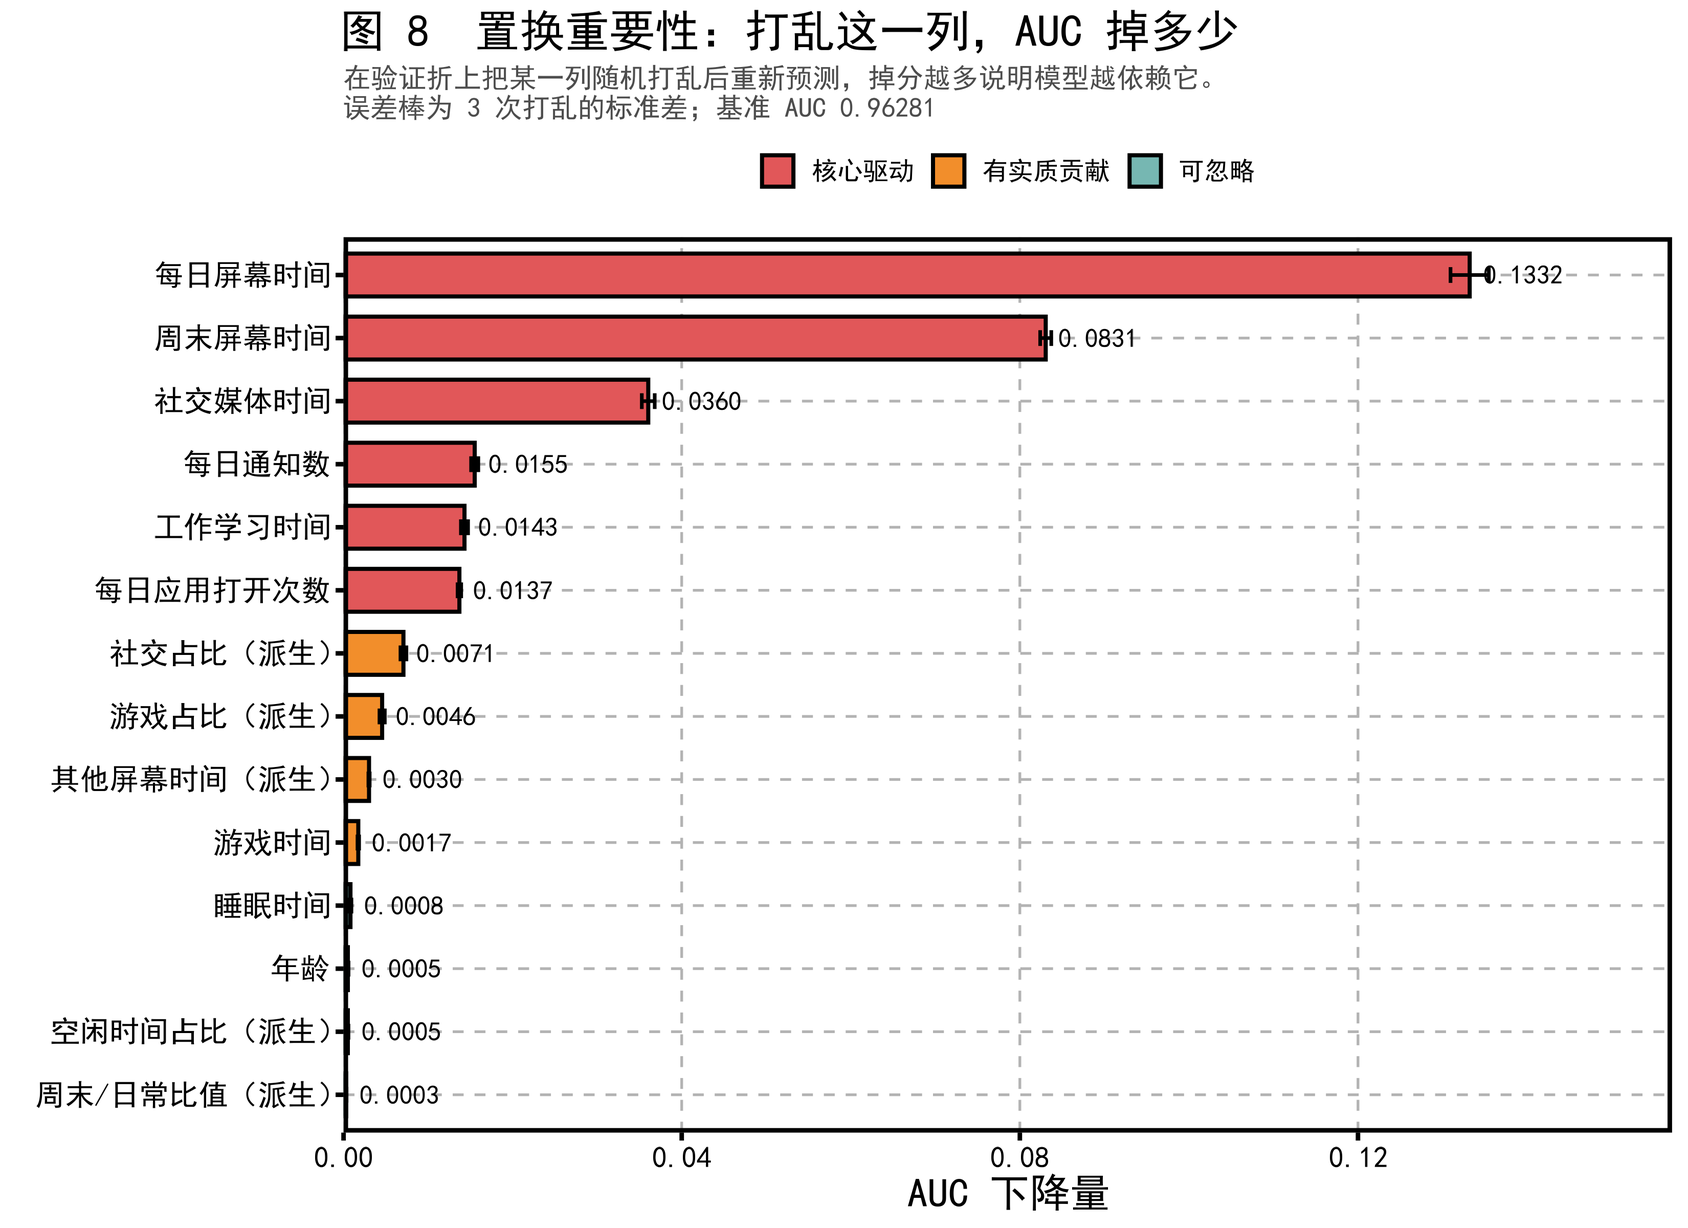
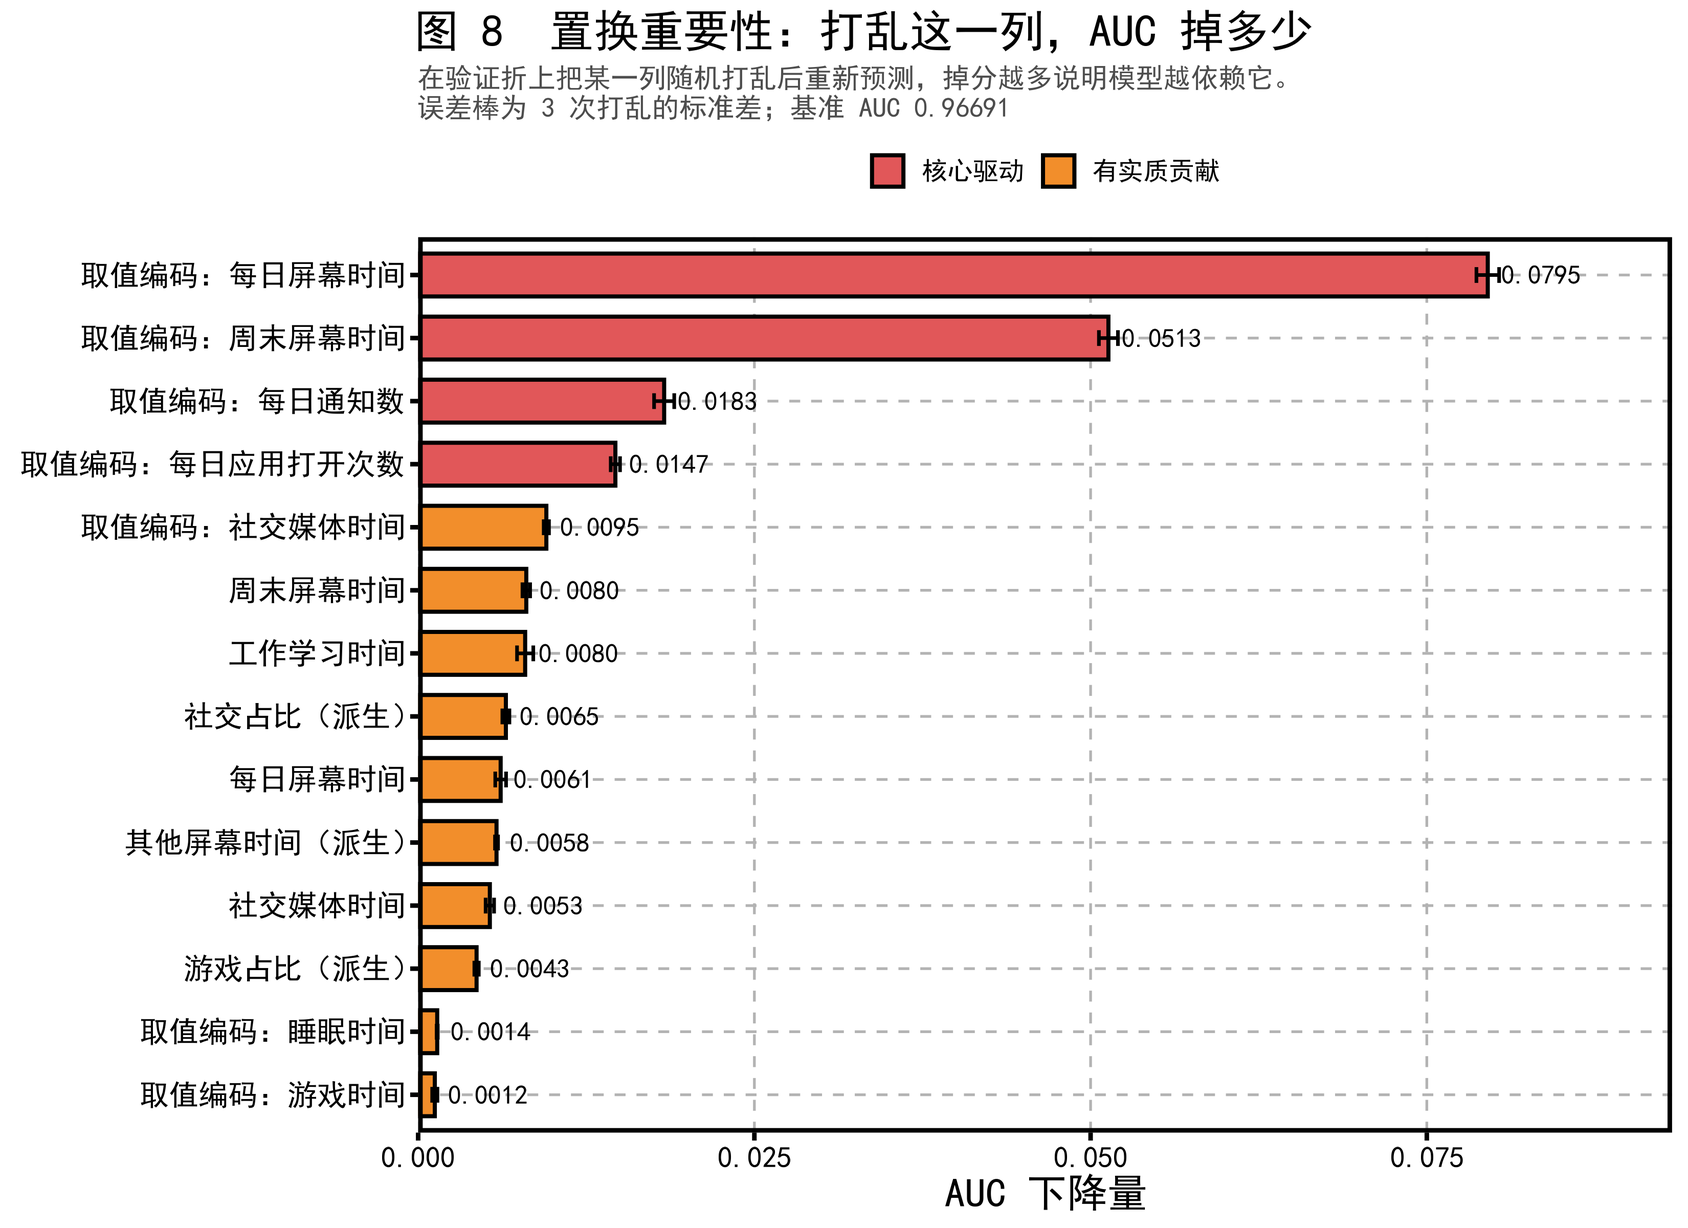
知识收尾：文档与代码对齐到 25 特征口径，补项目规则文件
上一次提交把特征集从 17 改到 25，但若干文档与脚本还在描述旧配置。
本次把「代码事实」与「文档说法」重新对上，并补上此前完全缺失的规则面。

== 陈旧说法修正 ==

README.md 六处：
  - 硬约束写的还是三项，改为四项（421,427 行 100%）
  - 核心结论只讲插补一个实例，推广为「预处理的价值 = 该变换有多难被模型自己造出来」
  - 进度表补赛后一轮；文档索引补 讨论区核查.md
  - 环境变量补 USE_TE=0；协作规则补第 4 条（编码同样必须折内拟合）

R/09_alpha_scan.R：注释里的「特征只有 17 个」→ 25 个。

== 重要性表重跑（原表是 17 特征口径）==

R/13_importance.R 此前不做 target encoding，产出的表描述的是已不使用的特征集。
补上折内编码并重跑，结果改变了一个已记录的结论：

  每日屏幕时间（原始）置换重要性  0.1332 -> 0.0061，从第 1 位掉到第 9 位
  取值编码：每日屏幕时间                    0.0795，占据首位

原始列没有变得不重要，是它的信息被编码列更好地承载了。
项目总览 4.3 / 4.4 按新表重写，并显式标注 4.2 的消融表已是历史口径。

== 口径声明（避免读者混用两套数字）==

docs/进度.md 头部新增口径表：哪些结果属于「加入编码之前」、哪些属于当前代码。
R/09_ablation.R 头部加声明：该脚本不走框架、不做编码，产出的是旧口径。

设计文档 §0 修订表补 4 行：F1 不完整、F8 被 F1 推翻、
「派生特征全部无效」是被自己的错误掩盖、特征集 17 -> 25。

== 新增 CLAUDE.md ==

此前项目没有任何 AI 规则文件，四条不可违反的纪律（折叠冻结、看 y 的变换只能
折内拟合、框架单点修改、不污染 output/oof/）只散落在代码注释里。
新建一份 60 行的规则文件作为下次会话的入口，含 R 的绝对路径调用方式、
度量纪律、以及五个已踩过的陷阱。

门禁：51 个 R 脚本逐文件语法通过；文档内部链接全部可达；
建模列数确认为 25；网格目录仍为 14 格未受污染。

diff --git a/docs/项目总览.md b/docs/项目总览.md
@@ -348,46 +348,65 @@ glmnet 在其中权重很低，因此该项差异不影响交付。
 
 ![图 8](../reports/figures/fig8_特征重要性.png)
 
-在 17 特征配置上重新计算的结果如下（基线 AUC 0.96281）：
+在**当前的 25 特征配置**上计算的结果如下：
 
-| 特征          | 置换重要性  | 增益占比  |
-| ----------- | ------ | ----- |
-| 每日屏幕时间      | 0.1332 | 36.9% |
-| 周末屏幕时间      | 0.0831 | 17.4% |
-| 社交媒体时间      | 0.0360 | 12.8% |
-| 每日通知数       | 0.0155 | 6.6%  |
-| 工作学习时间      | 0.0143 | 2.6%  |
-| 每日应用打开次数    | 0.0137 | 6.3%  |
-| 社交占比（派生）    | 0.0071 | 6.4%  |
-| 其余十个特征      | < 0.005 | —    |
+| 特征 | 置换重要性 | 增益占比 |
+|---|---|---|
+| 取值编码：每日屏幕时间 | **0.0795** | 34.9% |
+| 取值编码：周末屏幕时间 | **0.0513** | 12.9% |
+| 取值编码：每日通知数 | 0.0183 | 7.5% |
+| 取值编码：每日应用打开次数 | 0.0147 | 6.4% |
+| 取值编码：社交媒体时间 | 0.0095 | 5.2% |
+| 周末屏幕时间（原始） | 0.0080 | 3.1% |
+| 工作学习时间（原始） | 0.0080 | 1.4% |
+| 社交占比（派生） | 0.0065 | 6.1% |
+| **每日屏幕时间（原始）** | **0.0061** | 6.9% |
+| 预算余量（派生） | 0.0058 | 1.1% |
+| 其余十五个特征 | < 0.005 | — |
 
-值得注意的是，**周末屏幕时间的重要性位居第二**。
-该变量与每日屏幕时间高度相关，看似冗余，
-但当每日屏幕时间缺失时（占 13.86%），它是最可靠的替代来源。
-这说明**冗余变量在存在缺失的场景下具有实质价值**。
+**这张表相对上一版发生了根本变化，值得单独说明。**
+
+在 17 特征配置下，`每日屏幕时间` 的置换重要性是 **0.1332**，遥遥领先。
+加入逐取值编码之后，它掉到 **0.0061**——**排到了第九位**，
+而它的编码版本以 0.0795 占据首位。
+
+**原始列并没有变得不重要，是它的信息被编码列更好地承载了。**
+打乱原始列时，模型可以从编码列把同样的信息读回来；反过来则不行，
+因为编码携带的是原始列的单调排序**捕捉不到**的那部分（发现 10、11）。
+
+同样的替代发生在通知数上：原始列从 0.0155 掉到 0.0004，
+而 `取值编码：每日通知数` 是 0.0183。
+
+> ⚠ **这也说明 4.2 的消融表已是历史口径。** 那张表是在加入编码**之前**测的，
+> 其中"删掉每日通知数 −0.00825"描述的是一个不再存在的配置。
+> 在当前配置下，删掉原始通知数很可能代价小得多，因为编码列顶得上。
+> **该消融尚未在新配置下重跑**（约需 3 小时），在重跑之前，
+> 4.2 应按"加入编码之前"的口径理解。
+
+关于**周末屏幕时间**的老观察仍然成立：它的编码版位居第二。
+该变量与每日屏幕时间高度相关、看似冗余，但当每日屏幕时间缺失时（占 13.86%），
+它是最可靠的替代来源。**冗余变量在存在缺失的场景下具有实质价值。**
 
 ### 4.4 三种重要性口径的分歧
 
 模型内建的"增益重要性"与置换重要性给出的排序并不一致。
-最清楚的一处倒挂出现在派生特征与原始特征之间：
+在当前配置下，最清楚的一处倒挂是：
 
-| 特征           | 增益占比  | 置换重要性   |
-| ------------ | ----- | ------- |
-| 周末/日常比值（派生）  | 1.84% | 0.00031 |
-| 空闲时间占比（派生）   | 1.59% | 0.00050 |
-| 游戏时间（原始）     | 1.46% | 0.00174 |
+| 特征 | 增益占比 | 置换重要性 |
+|---|---|---|
+| 每日屏幕时间（原始） | 6.9% | 0.0061 |
+| 社交媒体时间（原始） | 6.1% | 0.0053 |
+| 取值编码：社交媒体时间 | 5.2% | **0.0095** |
 
-游戏时间的增益占比最低，置换重要性却是前两者的三至六倍。
-"社交占比"同理：其增益占比 6.42% 与"每日通知数"的 6.63% 几乎持平，
-置换重要性却只有后者的一半（0.0071 对 0.0155）。
+两个原始列的**增益占比高于**那个编码列，**置换重要性却低于它**。
 
 这一分歧有明确解释。增益重要性统计的是"该特征在树的分裂中被使用的程度"，
-取值连续、分布平滑的派生特征可被反复切分，容易累积较高的增益；
+取值连续的原始列可被反复切分，容易累积较高的增益；
 置换重要性衡量的则是"打乱该列之后模型是否仍能正常工作"。
-派生特征被频繁使用，但一旦打乱，模型立即改用其分量替代，因而并非不可或缺。
+**原始列被频繁使用，但一旦打乱，模型立即改用编码列替代，因而并非不可或缺。**
 
-该现象在移除「屏幕加社交」之前更为极端：它的增益占比曾高达 9.41%、
-位居第三，置换重要性却仅 0.00096——这也是判定其为冗余的证据之一。
+该现象在更早的配置里也出现过：已被删除的「屏幕加社交」增益占比曾高达 9.41%、
+位居第三，置换重要性却仅 0.00096——这正是判定其为冗余的证据之一。
 
 **结论：评估特征价值时应以置换重要性与消融实验为准，
 增益重要性仅可作为参考。**

diff --git a/CLAUDE.md b/CLAUDE.md
@@ -1,0 +1,73 @@
+# 智能手机成瘾预测 — Agent 工作规则
+
+10 人课程小组项目，纯 R。Kaggle 站内赛 S6E8，指标 ROC-AUC。
+面向组员的入口是 [docs/项目总览.md](docs/项目总览.md)，本文件只写**不看到就会犯错的东西**。
+
+## 怎么跑
+
+R 4.6.1 不在 PATH，必须用绝对路径：
+
+```
+"D:/R/R-4.6.1/bin/Rscript.exe" R/xx.R
+```
+
+数据不在 git 里（68 MB，且竞赛数据不宜公开再分发）。需自行从 Kaggle 下载
+`train.csv` / `test.csv` / `sample_submission.csv` 放进 `data/raw/`。
+
+一格实验：写一个 6 行的配置脚本（照抄 `R/06_model_TEMPLATE.R`），
+设 `MODEL_NAME` / `TIER` / `IMPUTE_LINE` / `fit_predict`，然后 `source("R/06_framework.R")`。
+
+环境变量覆盖，不必改 14 个模型文件：
+`TIER=B`（全量）、`REPEAT_ID=1`（重复 CV）、`USE_DERIVED=0`、`USE_TE=0`。
+
+## 四条不可违反的纪律
+
+**1. `output/folds.rds` 冻结后不得重新生成。** 它是全组分数可比的唯一基础，
+重跑一次此前所有实验作废。`R/04_folds.R` 有 `I_KNOW_WHAT_IM_DOING` 守卫。
+
+**2. 任何看 y 的变换，只能在折内的训练部分拟合。** 插补器与
+target encoder 都是 `fit_* / apply_*` 分离的形状，由 `R/06_framework.R` 在折内调用。
+在 CV 循环之外拟合（哪怕用同一套折）就是泄漏——训练部分的每个样本
+都会被含验证折标签的统计量编码。
+
+**3. `R/06_framework.R` 是共用框架。** 改行为改这一个文件，14 格同时生效；
+不要把早停/防泄漏逻辑复制进模型文件。
+
+**4. 不要往 `output/oof/` 里放实验性产物。** `09_stats.R` 与 `run_tierb.R`
+用 `^meta_grid_` 通配，多出来的文件会被当成额外的网格格子。
+一次性测量放 `output/feat17/`。
+
+## 度量纪律
+
+- **基线必须先有数字，图才是发现。** 任何"这个特征有用"的说法都要有
+  同折配对的 delta、Cohen's d 和逐折同号数；n=5 的 p 值不稳健，不作主要判据。
+- **安慰剂列是最便宜的对照**：随机值 + 与真实列相同的缺失模式。实测 −0.00010、
+  1/5 同号——任何真实特征都必须比它跑得远。见 `R/18_new_features.R`。
+- **不要静默兜底。** `lib_models.R` 里 xgboost 取不到 `best_iteration` 时直接
+  `stop()`，不回退到常数——那会把 API 变更伪装成一次正常实验。
+- 阴性结论要留证据脚本，不要只留一句话。`R/14`~`R/21` 都是这类存档。
+
+## 已知陷阱（都踩过）
+
+- **整数溢出**：`200000L * 98000L` 和 `n1 * n0 ≈ 9.85e10` 都会变 NA。
+  行数相乘前一律 `as.numeric()`。
+- **`system2(env=)` 在 Windows 上坏掉**（R 会前置 Unix `env` 命令）。
+  用 `run_tierb.R` 里的 `run_with_env()`。
+- **`sys.source(envir=)` 隔离不了模型文件**（`source()` 在 globalenv 求值）。
+  每格用子进程跑。
+- **写 R/Python 脚本用 Write 工具，不要用 bash heredoc**，长脚本和转义容易损坏。
+- 生成图表时**小差异不要用零基线柱状图**：本项目算法间差 0.03、
+  插补策略间只差 0.001~0.01，从 0 起画后者会被压平。
+
+## 当前状态（2026-09-01）
+
+代码全部跑通。比赛已于 8/31 结束，最终榜单 **0.96627**（九成员集成）。
+
+赛后又做了一轮：读竞赛讨论区 54 帖并逐条核查，**发现我们自己两处定义算错了**
+（发现 1 的约束是四项不是三项；发现 8 因此也错），加入逐取值 target encoding，
+Tier A 单模型 0.96107 → **0.96562**。全部记录在 [docs/讨论区核查.md](docs/讨论区核查.md)。
+
+**未重跑**：`R/09_ablation.R` 的消融表、4×4 网格、集成与两次提交，
+都是加入编码**之前**的口径。文档中已逐处声明。完整重跑约 3 小时。
+
+待办见 [docs/进度.md](docs/进度.md)。

diff --git a/README.md b/README.md
@@ -13,14 +13,15 @@
 我们原本打赌「用数据的硬约束做精细插补」能赢：
 
 ```
-每日屏幕时间 >= 社交媒体时间 + 游戏时间     （451,246 行中 100% 成立）
+每日屏幕时间 >= 社交媒体时间 + 游戏时间 + 工作学习时间   （421,427 行中 100% 成立）
 ```
 
 **这个赌打输了**，而输的过程比赢更有价值。项目最终的核心结论是一个交互效应：
 
-> **同一个插补方法，在梯度提升树上是最差的，在线性模型上是决定性最优的。**
-> 插补的价值完全取决于下游模型能否自行表示「未知」——
-> 能把未知**聚起来**统一处理的模型，聚比猜好；不能聚的模型，猜得准比猜得糙好。
+> **同一项预处理，在梯度提升树上可以是最差的，在线性模型上是决定性最优的。**
+> **一项预处理的价值，等于该变换有多难被下游模型自己造出来。**
+> 这条结论有三个独立实例（插补、派生比值、逐取值编码），方向完全一致；
+> 最极端的一个：同一个编码在 glmnet 上值 +0.0335，在 xgboost 上只值 +0.0042。
 
 完整的推理链（三次自我证伪 + 一次成功的反向预测，每步都有配对检验）见
 [docs/项目说明.md](docs/项目说明.md) 第六节。
@@ -39,6 +40,7 @@
 | 加超参数搜索 | 0.96145 | — |
 | 最优单模型（全量 69 万） | 0.96465 | — |
 | **九成员集成** | **0.96487** | **0.96627** |
+| 逐取值编码 + 更正两处定义（Tier A 单模型） | **+0.00455** | 赛后，未提交 |
 
 **本地验证已被榜单二次验证**：两次提交的 CV 与 LB 差值稳定在 +0.0014；
 第二次提交前据此预测 0.96623，实际 0.96627，误差 4×10⁻⁵。
@@ -52,6 +54,7 @@
 | [**docs/项目总览.md**](docs/项目总览.md) | **组员从这里开始** —— 半小时读完，含全部图表与工作流程 |
 | [docs/进度.md](docs/进度.md) | 已完成 / 待完成 / 实验结果，项目状态的唯一真源 |
 | [docs/审查响应.md](docs/审查响应.md) | 对方法学审查的逐条回应（含一条**不采纳**及其理由） |
+| [docs/讨论区核查.md](docs/讨论区核查.md) | 竞赛讨论区 54 帖的做法核查：复现了什么、我们漏了什么、不采纳什么 |
 | [output/results.md](output/results.md) | 全部实验数字，由 `R/11_report.R` 自动生成 |
 | [docs/项目说明.md](docs/项目说明.md) | 技术细节：完整推理链、配对检验、方法学声明 |
 | [docs/小组分工.md](docs/小组分工.md) | 10 人分工、每人的产出与验收标准 |
@@ -94,6 +97,7 @@ source("R/04_folds.R")
 TIER=B        Rscript R/06_model_L1_xgboost.R   # 全量重训
 REPEAT_ID=1   Rscript R/06_model_L1_xgboost.R   # 重复 CV
 USE_DERIVED=0 Rscript R/06_model_L1_xgboost.R   # 关掉派生特征
+USE_TE=0      Rscript R/06_model_L1_xgboost.R   # 关掉逐取值编码
 ```
 
 一键跑完全部实验：`Rscript R/run_pipeline.R`
@@ -131,6 +135,10 @@ USE_DERIVED=0 Rscript R/06_model_L1_xgboost.R   # 关掉派生特征
 
 **3. 插补必须在每一折内部拟合。**
 在全训练集上拟合插补再套用会造成信息泄漏，CV 分数虚高。模板 `R/06_model_TEMPLATE.R` 已经把正确的循环结构写好了，照抄即可。
+
+**4. 逐取值 target encoding 同样必须在每一折内部拟合。**
+和插补是同一条纪律。在 CV 循环之外拟合编码器（哪怕用同一套折）也是泄漏——
+训练部分的每个样本都会被含验证折标签的统计量编码。框架已处理，`USE_TE=0` 可关闭。
 
 ---
 

diff --git a/docs/superpowers/specs/2026-08-21-smartphone-addiction-design.md b/docs/superpowers/specs/2026-08-21-smartphone-addiction-design.md
@@ -21,6 +21,10 @@
 | `screen_social` 是「近似充分统计量」 | §3.3 | **命名不成立**。由 F1 可知 social 本身是 screen 的分量，二者相加等价于 `2×social + gaming + other`，社交被算了两遍。作为单变量打分器它确实有效（AUC 0.912 对 screen 单独的 0.889），但扫描 `screen + w×social` 发现最优 `w = 1.75` 而非 1 —— 权重 1 只是相加动作的副产物。模型中置换重要性仅 0.00096，与自身分量回归 **R² = 1.000000**（零新信息，对 glmnet 造成秩亏）。见 `R/16_screensocial_audit.R` |
 | 缺失指示 + `n_missing` 应作为特征进入模型 | §3.2、§5 | **已删除**。它们本是用于检验"缺失位置是否携带信息"的**诊断变量**：F6 证明缺失为 MCAR，消融给出 +0.00003（p=0.448），置换重要性全部 ≤ 0.00001（11 个为负）。诊断结论既已确定，就没有理由留在特征集中。生成代码保留在 `R/03_features.R`，由 `WITH_NA_INDICATORS` 开关控制，默认关闭 |
 | 特征集为 31 个（12 原始 + 13 缺失相关 + 6 派生） | §5 | **已改为 17 个**（12 原始 + 5 派生）。删去上述 13 列与 `screen_social`。重测 L1 × xgboost：0.96107 ± 0.00121，对 31 特征的 0.96088 为 +0.00019（4/5 折同号，Cohen's d = 0.86，p = 0.128）—— 无损失。注意 4×4 网格与集成结果尚未在新口径下重跑 |
+| 硬约束 F1 是 `daily >= social + gaming` | §3.2、§5 | **不完整**。真正被生成器强制的是**四项** `daily >= social + gaming + work_study`（421,427 行 100% 成立，残差最小值恰为 0.000；三项版最小值 0.100，只是推论）。两个残差相关仅 0.7613，不是同一列。语义上 work_study 在屏幕时间之内。见 `R/17_discussion_checks.R` |
+| F8「空闲时间不是硬约束，1.84% 为负」 | §3.2 | **推翻，错因是 F1**。`24 - sleep - work - screen` 把 work 减了两遍。改成 `24 - sleep` 后最小值 +3.99、负值 0%，是干净的硬约束。`free_frac` 分母已更正 |
+| 「派生特征全部无效」 | §6 的结论 | **被自己的错误掩盖**。当时 `other_screen` 是三项残差，而三项的边界树能用台阶铺出来。改成四项后，它成为**唯一**在逐取值编码之上仍有效的派生特征（+0.00064，5/5 折同号） |
+| 特征集为 17 个 | §5 | **已改为 25 个**（12 原始 + 5 派生 + 8 个逐取值 target encoding）。编码在折内拟合，Tier A × L1 × xgboost 0.96107 → 0.96562（+0.00455，5/5 同号，Cohen's d 7.07）。见 `docs/讨论区核查.md` |
 
 **替代结论**（有完整配对检验支撑）：
 

diff --git a/docs/进度.md b/docs/进度.md
@@ -1,6 +1,6 @@
 # 项目进度
 
-> 最后更新：2026-08-24 · 距交付（9/6）还有 13 天
+> 最后更新：2026-09-01 · 比赛已于 8/31 结束 · 距交付（9/6）还有 5 天
 
 这份文档是项目状态的唯一真源。**每次有人跑完实验或交付模块，请更新这里。**
 
@@ -11,13 +11,30 @@
 
 ## 一句话状态
 
-**全部代码已完成并跑通，端到端流水线验证通过，提交文件已生成。**
+**代码全部跑通，比赛已结束，最终榜单 0.96627（九成员集成）。**
 
 方法学审查的 13 条全部闭环（12 条修复 + 1 条附理由不采纳）。
-最好的单模型 **L1_xgboost，全量 OOF AUC 0.96454**；
-七成员爬山法集成 **0.96477**。提交文件在 `submissions/`，等组长上传 Kaggle。
 
-剩下的是人来做的部分：可视化、幻灯片、讲稿、复现验收。
+**赛后又做了一轮，是收益最大的一轮**：读竞赛讨论区 54 帖并逐条核查，
+发现**我们自己有两处定义算错了**，加入逐取值 target encoding，
+Tier A 单模型 0.96107 → **0.96562（+0.00455，5/5 折同号）**。
+完整记录见 [讨论区核查.md](讨论区核查.md)。
+
+剩下的是人来做的部分：幻灯片、讲稿、复现验收。
+
+---
+
+## ⚠ 口径声明（读任何数字之前先看这个）
+
+本文档与 `项目说明.md` 里的实验数字分属**两个口径**：
+
+| 口径 | 特征 | 包含哪些结果 |
+|---|---|---|
+| **旧（加入编码之前）** | 17 或 31 | 4×4 网格、消融表、集成、两次 Kaggle 提交 |
+| **新（当前代码）** | 25 | 逐取值编码的三轮测量、特征重要性表 |
+
+**未重跑**：`R/09_ablation.R` 的消融、4×4 网格、集成。完整重跑约 3 小时。
+在重跑之前，标着"旧口径"的表描述的是一个**当前代码已不再产生**的配置。
 
 ---
 
@@ -145,7 +162,7 @@ glmnet 没有「聚」这个选项，因此猜得准才重要。
 
 ### 特征消融
 
-早停版本重跑后的结果：
+早停版本重跑后的结果（**旧口径：加入逐取值编码之前，31 特征基线**）：
 
 | 变体 | AUC 变化 | Cohen's d | 同号 | p | 裁决 |
 |---|---|---|---|---|---|
